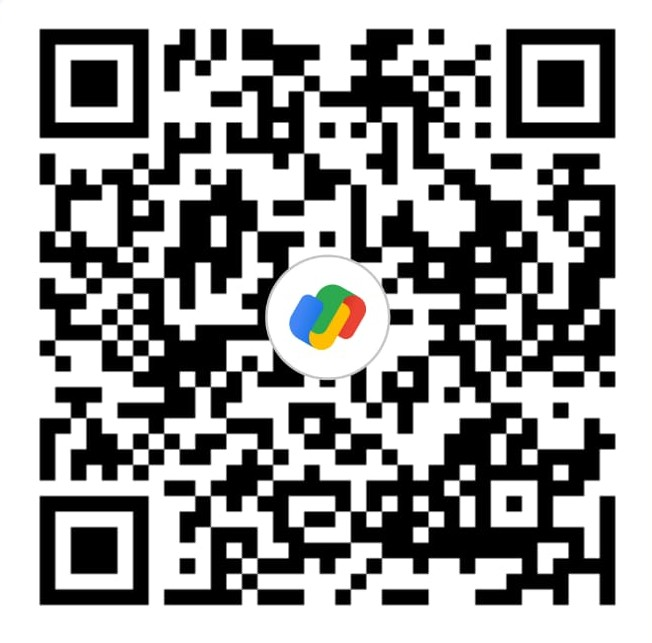
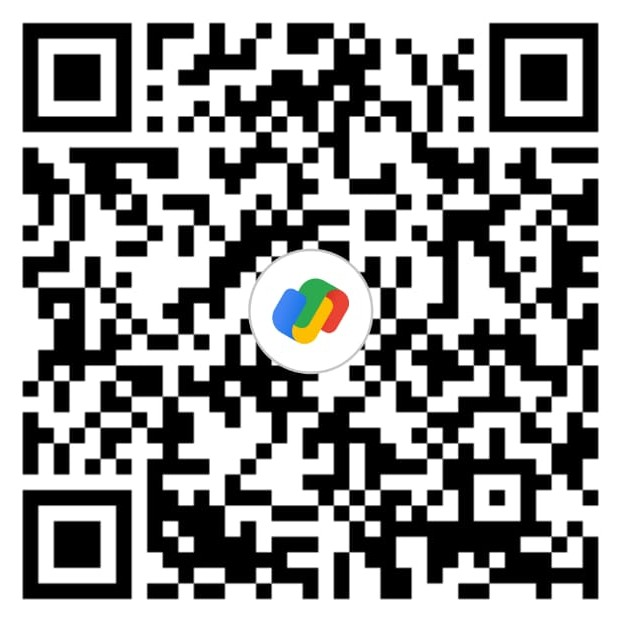
update registration qr and account holder name

diff --git a/app/src/sections/Register.tsx b/app/src/sections/Register.tsx
@@ -987,14 +987,15 @@ export default function Register({ onBack }: RegisterProps) {
                   <div className="flex flex-col items-center">
                     <div className="bg-white p-4 rounded-xl shadow-lg mb-4">
                       <QRCode
-                        value={`upi://pay?pa=bharathk220620005-5@okicici&pn=Galaxy 2k26&am=${calculateTotal()}&cu=INR`}
+                        value={`upi://pay?pa=ganeshankittu5@okicici&pn=Ms.G. Chithra&am=${calculateTotal()}&cu=INR`}
                         size={180}
                         viewBox={`0 0 256 256`}
                         style={{ height: "auto", maxWidth: "100%", width: "100%" }}
                       />
                     </div>
-                    <div className="bg-white/10 px-4 py-2 rounded-full border border-white/10">
-                      <p className="text-white font-mono text-sm select-all">bharathk220620005-5@okicici</p>
+                    <div className="bg-white/10 px-4 py-2 rounded-xl border border-white/10 text-center flex flex-col items-center">
+                      <p className="text-white font-mono text-sm select-all">ganeshankittu5@okicici</p>
+                      <p className="text-white/60 text-xs mt-1">Ms.G. Chithra</p>
                     </div>
                   </div>
 
